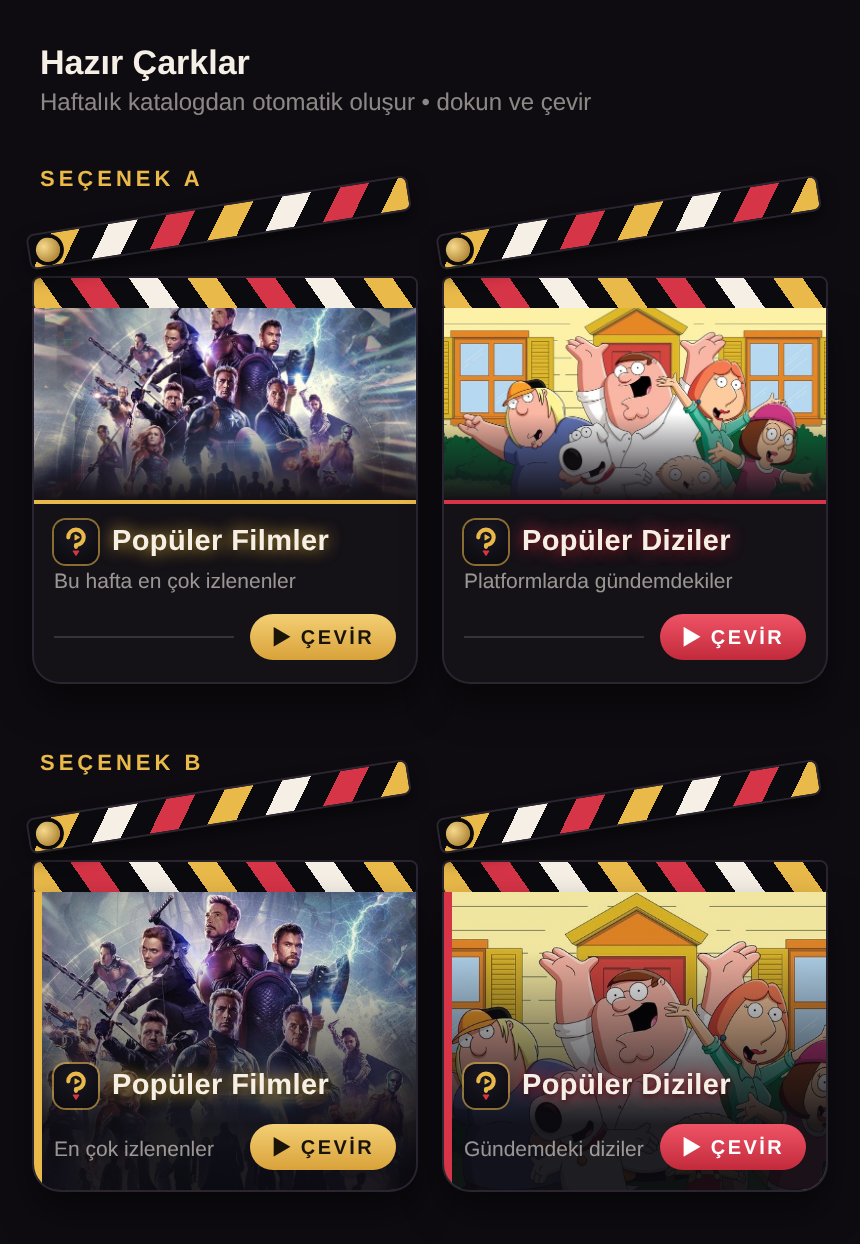
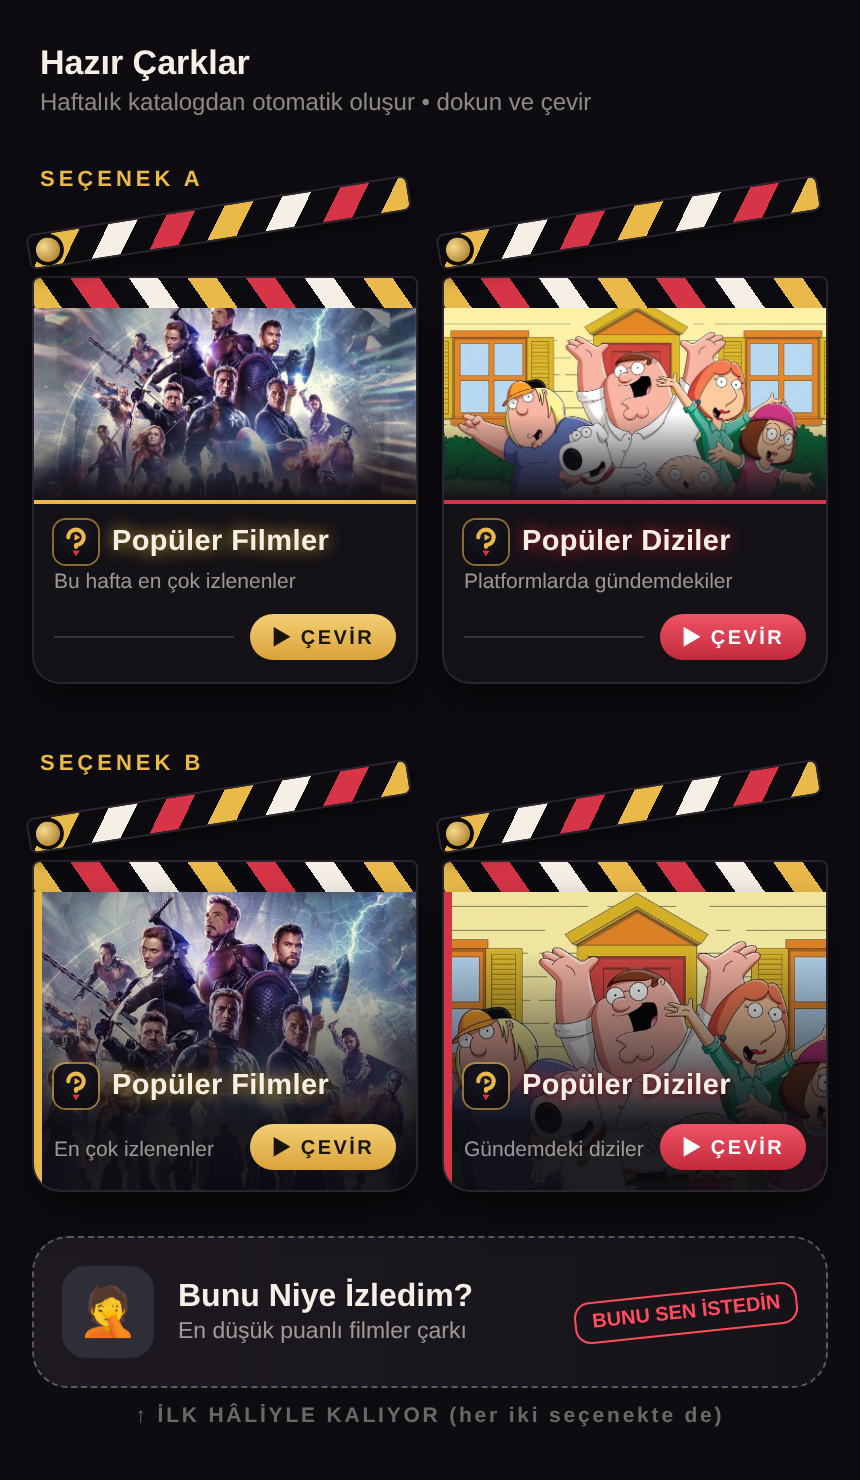
Önizleme: Bunu Niye İzledim kartı ilk hâline döndü
Claude-Session: https://claude.ai/code/session_01Q1LBDkMis9fZfSetxmGZms

diff --git a/branding/hazir-carklar-secenekler.html b/branding/hazir-carklar-secenekler.html
@@ -32,6 +32,12 @@ h2{font-size:17px;font-weight:900;margin:0 4px 2px}.sub{font-size:12px;color:rgb
 .stripes{position:absolute;inset:0;background:repeating-linear-gradient(-55deg,#e9b949 0 12px,#0b0a0f 12px 24px,#d63447 24px 36px,#0b0a0f 36px 48px,#f5efe6 48px 60px,#0b0a0f 60px 72px)}
 .stick.low .stripes{background:repeating-linear-gradient(55deg,#e9b949 0 12px,#0b0a0f 12px 24px,#d63447 24px 36px,#0b0a0f 36px 48px,#f5efe6 48px 60px,#0b0a0f 60px 72px)}
 .hinge{position:absolute;left:3px;top:2px;width:12px;height:12px;border-radius:50%;background:radial-gradient(circle at 35% 35%,#f6d98c,#9c6d1c);box-shadow:0 0 0 2px #0b0a0f}
+
+.worst{display:flex;align-items:center;gap:12px;border-radius:18px;padding:14px;margin-top:22px;background:linear-gradient(90deg,#1f1a22,#151218);border:1.5px dashed rgba(148,163,184,.5)}
+.worst .e{width:46px;height:46px;border-radius:12px;background:rgba(148,163,184,.15);display:flex;align-items:center;justify-content:center;font-size:24px;flex:none}
+.worst .tt{font-weight:900;font-size:16px}.worst .ss{font-size:11.5px;color:rgba(245,239,230,.6);margin-top:2px}
+.worst .go2{margin-left:auto;white-space:nowrap;font-size:10px;font-weight:900;color:#ff4d5e;border:1.5px solid #ff4d5e;border-radius:8px;padding:4px 8px;transform:rotate(-6deg);flex:none}
+.note{font-size:10.5px;letter-spacing:1.4px;color:rgba(245,239,230,.4);font-weight:800;text-align:center;margin-top:8px}
 </style></head><body>
 <h2>Hazır Çarklar</h2><div class="sub">Haftalık katalogdan otomatik oluşur • dokun ve çevir</div>
 <div class="opt">SEÇENEK A</div>
@@ -46,4 +52,5 @@ h2{font-size:17px;font-weight:900;margin:0 4px 2px}.sub{font-size:12px;color:rgb
 <div class="foot"><div class="d">En çok izlenenler</div><span class="btn ">▶ ÇEVİR</span></div></div></div></div><div class="clap B" style="--acc:#D63447"><div class="stick top"><div class="stripes"></div><div class="hinge"></div></div><div class="stick low"><div class="stripes"></div></div><div class="body" style="background-image:url(p/bd_jbTqU6BJMufoMnPSlO4ThrcXs3Y.jpg)"><div class="bar"></div>
 <div class="band"><div class="row"><img class="lg" src="logo.svg"><div class="t glow">Popüler Diziler</div></div>
 <div class="foot"><div class="d">Gündemdeki diziler</div><span class="btn red">▶ ÇEVİR</span></div></div></div></div></div>
-</body></html>
+<div class="worst"><div class="e">🤦</div><div><div class="tt">Bunu Niye İzledim?</div><div class="ss">En düşük puanlı filmler çarkı</div></div><div class="go2">BUNU SEN İSTEDİN</div></div>
+<div class="note">↑ İLK HÂLİYLE KALIYOR (her iki seçenekte de)</div></body></html>
